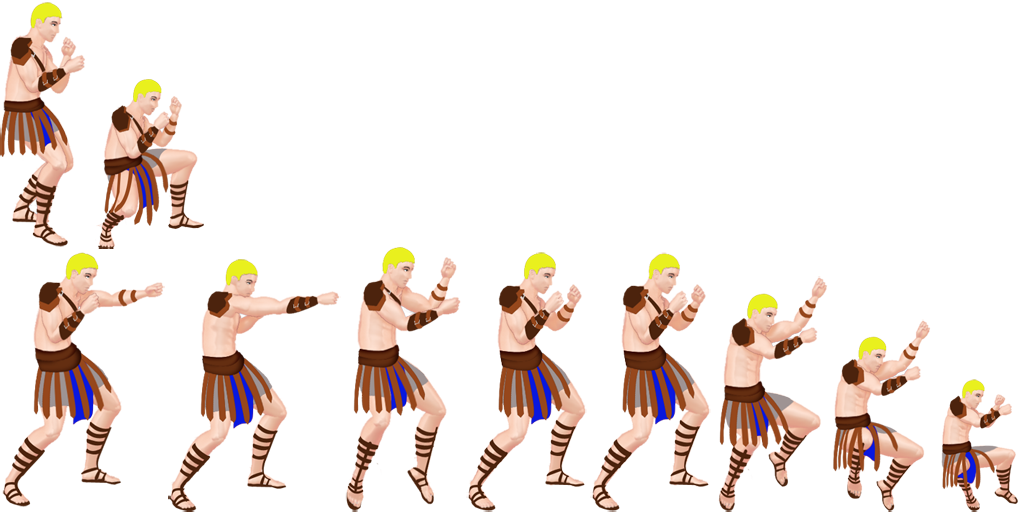
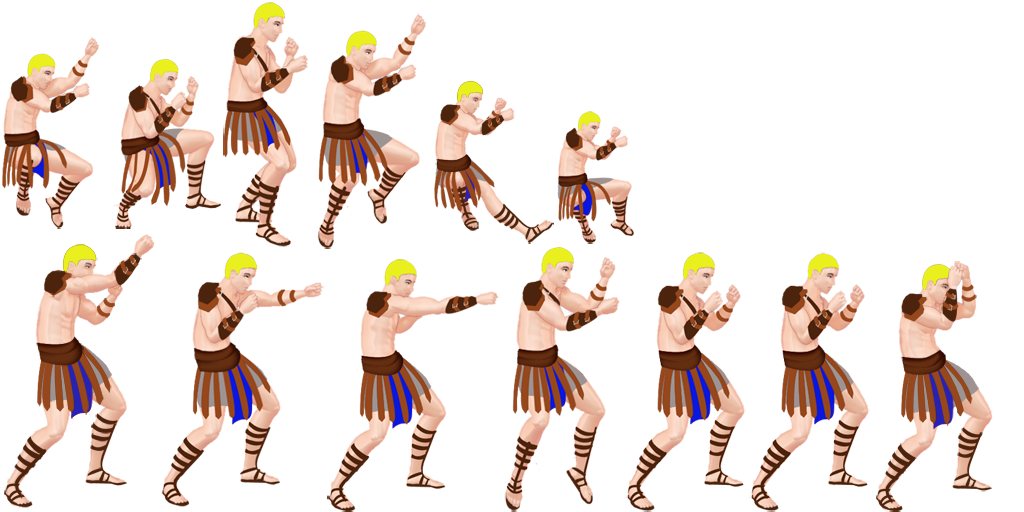
block

diff --git a/core/src/Fighter/Fighter.java b/core/src/Fighter/Fighter.java
@@ -10,10 +10,14 @@ import com.badlogic.gdx.utils.Array;
 
 import Constants.GameValues;
 
+import static Fighter.Fighter.FighterFightingState.BLOCK;
+import static Fighter.Fighter.FighterFightingState.NONE;
+
 public class Fighter extends Sprite
 {
     public enum FighterMovementState{STANDING, MOVINGRIGHT, MOVINGLEFT, JUMPING, DUCKING}
     protected FighterMovementState movementState = FighterMovementState.STANDING;
+
     public enum FighterFightingState {ATTACK_UP, ATTACK_DOWN, ATTACK, BLOCK, NONE}
     protected FighterFightingState fightingState = FighterFightingState.NONE;
 
@@ -21,6 +25,15 @@ public class Fighter extends Sprite
     protected TextureRegion facingLeft;
     protected TextureRegion facingDirection;
     protected TextureRegion duck;
+
+    //TODO///////////////////////////////////////////////////
+    protected TextureRegion blocked;
+    protected TextureRegion hitHigh;
+    protected TextureRegion jumpKick; // für schlag nach unten
+    protected TextureRegion hit;
+
+
+
 
     protected Animation <TextureRegion> runAnimation;
     protected Animation <TextureRegion> jump;
@@ -67,6 +80,8 @@ public class Fighter extends Sprite
 
 
         duck = new TextureRegion(atlas.findRegion("DUCK_1_C"));
+        blocked = new TextureRegion(atlas.findRegion("BLOCK_1_C"));
+
         facingRight = new TextureRegion(atlas.findRegion("IDLE_C"));
         facingLeft = new TextureRegion(atlas.findRegion("IDLE_C"));
         facingLeft.flip(true,false);
@@ -101,20 +116,48 @@ public class Fighter extends Sprite
         setRegion(getFrame(delta));
     }
 
-    public TextureRegion getFrame(float delta){
-        currentMovementState = movementState;
-        TextureRegion region ;
 
-        switch (currentMovementState){
+
+
+
+
+
+    public TextureRegion getFrame(float delta){
+        TextureRegion region;
+
+        if (fightingState == NONE) {
+           region = getmovestate();
+
+        } else {
+            switch (getCurrentFightingState()){
+                case BLOCK:
+                    region = blocked;
+                    break;
+                default:
+                    region= getmovestate();
+                    break;
+                }
+        }
+
+        stateTimer = currentMovementState == previousMovementState? stateTimer + delta :0;//TODO !!!!!!!!!!!!!!
+        previousMovementState = currentMovementState;
+        return region;
+    }
+
+
+    private TextureRegion getmovestate(){
+        TextureRegion region;
+        currentMovementState = movementState;
+        switch (currentMovementState) {
             case MOVINGRIGHT:
             case MOVINGLEFT:
-                region = new TextureRegion(runAnimation.getKeyFrame(stateTimer,true));
+                region = new TextureRegion(runAnimation.getKeyFrame(stateTimer, true));
                 break;
             case STANDING:
                 region = facingDirection;
                 break;
             case JUMPING:
-                region = new TextureRegion(jump.getKeyFrame(stateTimer,true));
+                region = new TextureRegion(jump.getKeyFrame(stateTimer, true));
                 break;
             case DUCKING:
                 region = duck;
@@ -123,11 +166,14 @@ public class Fighter extends Sprite
                 region = facingDirection;
                 break;
         }
-
-        stateTimer = currentMovementState == previousMovementState? stateTimer + delta :0;//TODO !!!!!!!!!!!!!!
-        previousMovementState = currentMovementState;
         return region;
+
     }
+
+
+
+
+
 
     public void moveRight(int speed)
     {

diff --git a/core/src/com/mygdx/game/GameClass.java b/core/src/com/mygdx/game/GameClass.java
@@ -71,7 +71,7 @@ public class GameClass implements Screen, GestureDetector.GestureListener {
     // we need the MainClass Objekt to access the SpriteBatch
     public GameClass(MainClass mainClass){
         this.mainClass = mainClass;
-        //atlas = new TextureAtlas(Gdx.files.internal("moves.pack"));
+
         atlasAI = new TextureAtlas(Gdx.files.internal("fighter/AI.pack"));//TODO NEWWWWWWWWWWW 1
         atlasPlayer = new TextureAtlas((Gdx.files.internal("fighter/player.pack")));
 
